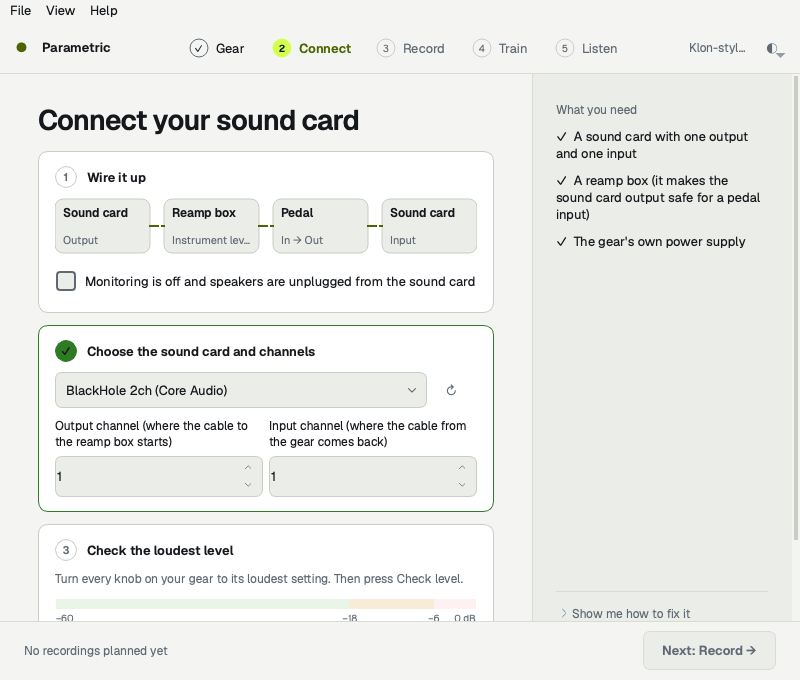
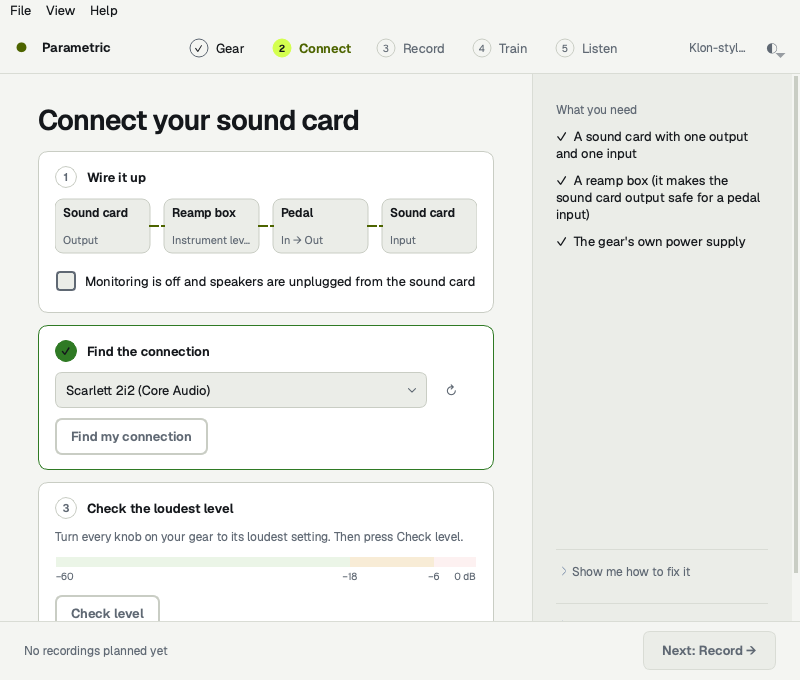
docs: describe Find my connection
The README, the UMC22 guide and PRODUCT.md describe the Find button.
The validation log records the test level and the loopback threshold.
The Connect screenshots show a found route on a stubbed sound card.

diff --git a/scripts/render_native.py b/scripts/render_native.py
@@ -27,6 +27,9 @@ import soundfile as sf
 from PySide6.QtCore import QProcess
 from PySide6.QtTest import QTest
 from PySide6.QtWidgets import QApplication
+from nam.capture.audio import DeviceInfo
+
+from parametric_mac.find_route import FindResult, Route
 
 ROOT = Path(__file__).resolve().parents[1]
 SIZES = (("desktop", (1140, 900)), ("compact", (800, 680)))
@@ -95,8 +98,25 @@ def build_window(inputs: Path):
     window._has_device = lambda: True
     window._device_sample_rate = lambda: 48000
     window._current_sample_rate_warnings = lambda: []
+    # The same sound card on every Mac, so the images never show this machine's devices.
+    device = DeviceInfo(0, "Scarlett 2i2", "Core Audio", 2, 2, 48000.0)
+    window.device_combo.clear()
+    window.device_combo.addItem(upstream.format_device_label(device), device)
     window.show()
     return window
+
+
+def find_route(window) -> None:
+    """Run Find with a stubbed scan that answers on Output 1 → Input 1; nothing is played."""
+    found = FindResult("found", (Route(1, 1, -16.0, ()),), ())
+    window._scan_outputs = lambda target, progress, cancel: found
+    window.find_button.click()
+    for _ in range(250):
+        if window._worker is None:
+            break
+        QTest.qWait(20)
+    if not window.find_result.text().startswith("Found:"):
+        raise RuntimeError(f"Find did not run: {window.find_result.text()!r}")
 
 
 def render_setup(r: Renderer) -> None:
@@ -109,6 +129,7 @@ def render_setup(r: Renderer) -> None:
     w.gear_next_button.click()
     r.shoot("connect-not-ready")
     w.wire_check.setChecked(True)
+    find_route(w)
     w._on_route_test_success(ROUTE_OK)
     r.shoot("connect-ready")
 

diff --git a/README.md b/README.md
@@ -72,7 +72,7 @@ You can explore the app before connecting hardware. **Recording needs a reamp bo
 2. **Gear.** Type a name and choose **Pedal** or **Amp**. The knobs and switches you want to turn later are tiles: click **+ Knob** or **+ Switch** to add one, × to remove one, and a name or range to change it. Pedal starts with Drive + Tone; Amp starts with six knobs + Bright. Write down the controls you keep fixed, such as "Level at 5". The drawing and the estimate ("~40 recordings · ~29 min") follow your changes. **Next: Connect** creates the project in `~/Music/Parametric/<name>`; click **Change** to choose another empty folder.
 3. **Connect.** Three small stages, top to bottom:
    - **Wire it up:** sound card output → reamp box → pedal → sound card input (an amp goes through a load box; never connect a speaker output to the sound card). Turn monitoring off, unplug speakers from the sound card, and tick the checkbox.
-   - **Choose the sound card and channels:** pick your sound card. The output channel is where the cable to the reamp box starts; the input channel is where the cable from your gear comes back. If the sound card does not run at 48 kHz, the app says so and shows an **Open Audio MIDI Setup** button.
+   - **Find the connection:** pick your sound card. Click **Find my connection**. The app plays a quiet click on each output, one at a time, and listens on every input. It sets the channels for you and ignores inputs that only copy the output (a digital loopback). You can still set the channels by hand under **Expert settings**. If the sound card does not run at 48 kHz, the app says so and shows an **Open Audio MIDI Setup** button.
    - **Check the loudest level:** turn every knob on your gear to its loudest setting and click **Check level**. When the peak is good, do not touch the sound card gain again for this project.
 
    **Show me how to fix it** lists the common problems. The [UMC22 guide](docs/hardware-umc22.md) and the [amp guide](docs/hardware-amps.md) are two example setups, including the optional timing loopback (under **Expert settings**).
@@ -100,6 +100,7 @@ For amp controls, select **Amp** on Gear and build your own layout from the star
 | uv or Python download fails | Check your internet connection and rerun. You can also install uv with `brew install uv` or [Astral's installer](https://docs.astral.sh/uv/getting-started/installation/). |
 | Finder will not open a `.command` file | Launch it from Terminal using `./Capture.command`. For a downloaded file blocked by macOS, use the normal Finder/Open or Privacy & Security flow if you trust the source. |
 | No interface or no input | Connect your sound card, press refresh (↻) on Connect and select it. Allow microphone access for the launching app, usually Terminal or Python, in System Settings → Privacy & Security → Microphone. |
+| Find my connection finds nothing | Check the cables, the power of the reamp box and your gear, and that the checkbox steps are done. Then use **Choose channels myself**. |
 | Sample-rate warning | Click **Open Audio MIDI Setup** on Connect, set your sound card to 48 kHz, then check the level again. |
 | Loopback not detected | Check the optional cable and channels, or disable the optional loopback if you have not wired it. It is off by default. |
 | Silence, clipping or timing warnings | Read the message on Record and the hardware guide. Correct the route; if the level must change, use **Start a new capture with these controls** rather than mixing levels. |

diff --git a/PRODUCT.md b/PRODUCT.md
@@ -14,7 +14,7 @@ Pedal and amp owners who want to capture knobs and named switches and train a co
 Guide the physical task and local model workflow through Connect, Plan, Capture, Train and Review, with practical hardware instructions and recoverable saved projects.
 
 ## Capabilities and Constraints
-The native app implements the approved Console redesign (2026-10-17): a Start page with recent projects, then Gear, Connect, Record, Train and Listen, in dark and light with a Match macOS / Light / Dark switch. Gear holds the editable control tiles (Add knob / Add switch / ×, range and position editors, Pedal / Amp starters) and creates the project in `~/Music/Parametric/<name>` or a chosen empty folder. Connect has three stages: wiring confirmation, sound card and channels (with a sample-rate block), and a loudest-level check. Record offers three detail levels (Fast, Good, Max) with Decent and Overkill under Expert settings; counts come from the real planner. It models 1–24 total controls, including named switches, with at least one knob. Every switch combination receives training and held-out settings. Projects are bounded to 32 combinations and 5,000 recordings; more than eight knobs use axis boundary sweeps. Unmodeled controls stay fixed. Coverage is not a measured sound-quality score. Presets preserve physical ranges; grid capacity bounds small plans.
+The native app implements the approved Console redesign (2026-10-17): a Start page with recent projects, then Gear, Connect, Record, Train and Listen, in dark and light with a Match macOS / Light / Dark switch. Gear holds the editable control tiles (Add knob / Add switch / ×, range and position editors, Pedal / Amp starters) and creates the project in `~/Music/Parametric/<name>` or a chosen empty folder. Connect has three stages: wiring confirmation, Find the connection (the sound card, a sample-rate block, and **Find my connection**, which plays quiet clicks on one output at a time and sets the channels; manual channels are under Expert settings), and a loudest-level check. Record offers three detail levels (Fast, Good, Max) with Decent and Overkill under Expert settings; counts come from the real planner. It models 1–24 total controls, including named switches, with at least one knob. Every switch combination receives training and held-out settings. Projects are bounded to 32 combinations and 5,000 recordings; more than eight knobs use axis boundary sweeps. Unmodeled controls stay fixed. Coverage is not a measured sound-quality score. Presets preserve physical ranges; grid capacity bounds small plans.
 
 Recording uses the existing native capture engine and QA. Record shows the positions to set, marks controls that changed since the last take, and records only the setting it shows (button or Space). A clipped take must be recorded again; the app never suggests changing levels, and a new capture is the way to set a lower level. Accepted takes lock the plan; before the first take the level and the controls can still change. Existing source recordings are retained. Connection readiness must be checked again after reopening.
 

diff --git a/docs/validation.md b/docs/validation.md
@@ -1,5 +1,11 @@
 # Validation and first Mac session
 
+## Find my connection, Phase 2 (October 20, 2026)
+
+The full suite passed on this Mac: **193 tests**, exit code zero, with 20 upstream deprecation warnings. New tests: `tests/test_find_route.py` (click detection, loopback test, route choice), `tests/test_find_scan.py` (one output at a time on a synthetic rig, several routes, cancel, dropout, large devices) and `tests/test_ui_find.py` (the Connect button, every result state, cancel while it runs, device change). Line coverage: `find_route.py` 96%, `find_scan.py` 100% (the sounddevice call is excluded; it needs a sound card); the Connect code runs only in GUI subprocess tests, so it has no coverage number.
+
+Find plays upstream's click preamble at **−20 dBFS** (`FIND_AMPLITUDE = 0.1`), below the route test level. With synthetic returns, detection works down to about −60 dBFS over a −90 dBFS noise floor and −50 dBFS over −80 dBFS, for round trips up to 20,000 samples; the clicks must stand about 30 dB above the noise. A return is a digital loopback when, after delay alignment and gain matching, the residual is **−80 dB** or lower. Not yet verified on real sound cards.
+
 ## Console redesign (October 19, 2026)
 
 The full suite passed on this Mac: **122 tests**, exit code zero, with 20 upstream deprecation warnings. New tests cover the theme tokens and WCAG AA contrast in both modes, the style sheet and appearance switch, the shell, and every page (Start, Gear, Connect, Record, Train, Listen), including the six Review Focus cases of the [Phase 1 plan](superpowers/plans/2026-10-17-ux-redesign-phase1.md). Line coverage of the pure modules: `recent.py` 97%, `ui/copy.py` 97%, `ui/tokens.py` 98%, `workflow.py` 85%. The user approved the light theme from offscreen screenshots. Not yet verified: native macOS menus and popups in each theme, real CoreAudio recording, and full MPS training with the new screens.

diff --git a/docs/hardware-umc22.md b/docs/hardware-umc22.md
@@ -40,7 +40,7 @@ The optional reference route uses INST 2 at low gain. A line output may overload
 3. Start with OUTPUT, reamp level and input gains low. Leave phantom power off for this direct pedal setup. Connect the pedal's correct supply.
 4. In macOS Audio MIDI Setup, select the UMC22 and use 48 kHz for input/output. Use the format the device exposes; writing a 24-bit WAV does not increase the interface's converter resolution.
 5. Grant microphone permission to Terminal/Python/the app that launches capture if macOS asks. Device naming may be generic USB audio, so identify the UMC22 by unplugging and reconnecting if needed.
-6. In **Connect**, select the same UMC22 device for input and output. Main send/return = channel 1. Optional loopback send/return = channel 2. Channels in the app are numbered from one. Start with a 512-frame buffer; increase it if dropouts occur.
+6. In **Connect**, select the UMC22 and click **Find my connection**. It should find Output 1 → Input 1. If the optional loopback cable is plugged in, Find shows two connections: choose **Use Output 1 → Input 1**. To set the channels by hand, open **Expert settings**: main send/return = channel 1, optional loopback send/return = channel 2. Channels in the app are numbered from one. Start with a 512-frame buffer; increase it if dropouts occur.
 7. Run **Test connection** before recording training examples. Verify a clean return, a clean reference if enabled, and a detected timing signal. Software cannot turn DIRECT MONITOR off for you.
 
 ## Set levels once
